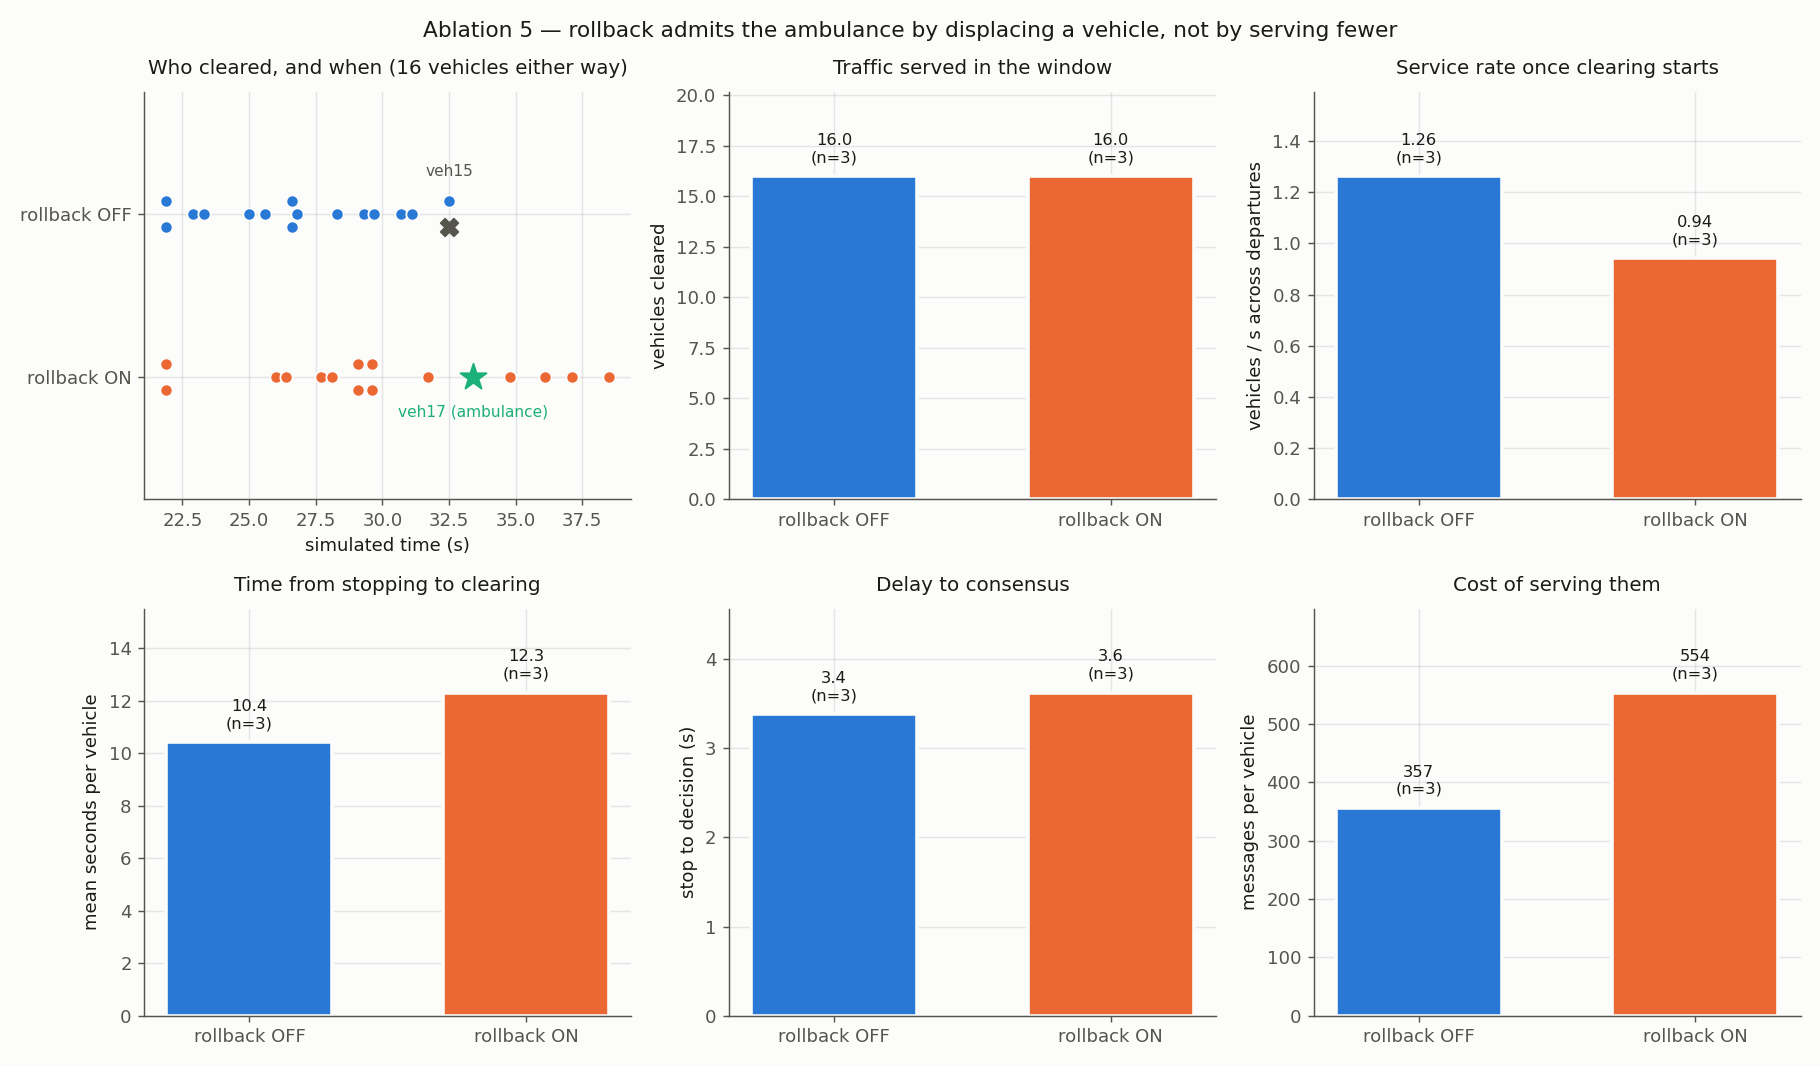
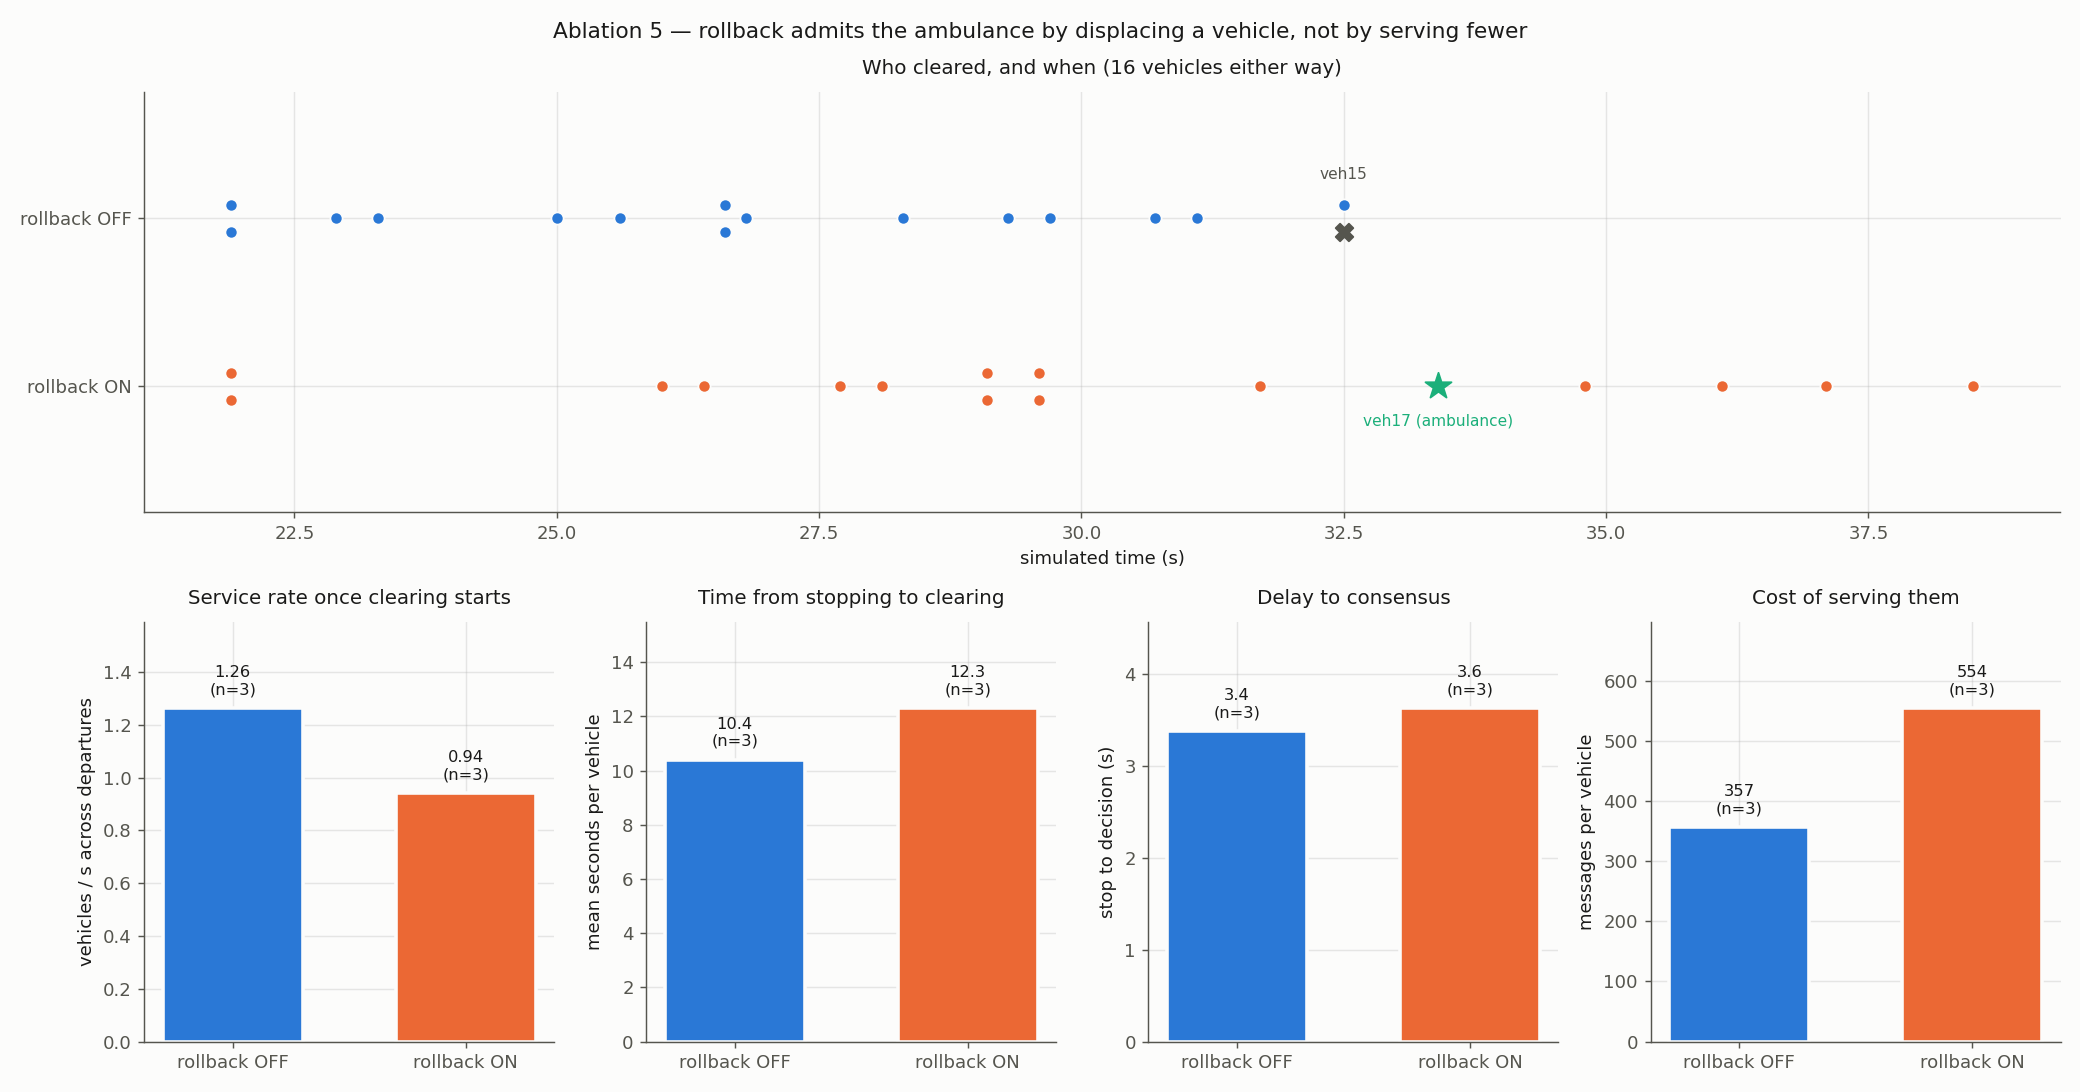
refactor(plotter): drop ab5's "traffic served" panel, widen the timeline
Both arms clear 16 vehicles either way, so the bar pair was two equal columns
stating that a count-based view sees nothing. That is the premise of the
departures panel, not a finding beside it -- the timeline already shows equal
counts by having equal numbers of dots, and what it adds is WHICH vehicles: the
ambulance takes veh15's slot.

The four remaining bars are the price of that substitution. Five panels do not
tile into the old 2x3 grid, so the departures panel now spans the full top row
of a 2x4; at one cell of six its 16 markers and their labels overlapped
illegibly. style.theme() exposes the axes theme for a module that replaces a
generated axes with a spanning subplot of its own, since figure() only themes
what it creates.

The `cleared` aggregate is dropped from ab5's load(); nothing else read it.

diff --git a/plotter/figures/ab5_rollback.py b/plotter/figures/ab5_rollback.py
@@ -30,8 +30,8 @@ from .. import style
 NAME = "ab5_rollback"
 TITLE = "Rollback: admitting a late ambulance, and its cost"
 STUDY = 5
-SUBPLOTS = (2, 3)
-FIGSIZE = (14.0, 8.2)
+SUBPLOTS = (2, 4)
+FIGSIZE = (16.0, 8.4)
 
 _ARMS = (("rollback_off", "control", "rollback OFF"),
          ("rollback_on", "treatment", "rollback ON"))
@@ -65,7 +65,6 @@ def load(runs):
     return dict(
         arms=[label for _, _, label in _ARMS],
         timeline=_timeline(cells),
-        cleared=[aggregate.cleared(cells[arm]) for arm, _, _ in _ARMS],
         cost=[aggregate.msgs_per_vehicle(cells[arm], committed_only=False)
               for arm, _, _ in _ARMS],
         thru=[aggregate.discharge_rate(cells[arm]) for arm, _, _ in _ARMS],
@@ -132,23 +131,31 @@ def _value_panel(data, key, ax, *, title, ylabel, fmt):
 
 
 def build(data, axes):
-    flat = list(axes.flat)
-    _departures(data, flat[0])
-    _value_panel(data, "cleared", flat[1], fmt="{:.1f}",
-                 title="Traffic served in the window",
-                 ylabel="vehicles cleared")
-    _value_panel(data, "thru", flat[2], fmt="{:.2f}",
+    # "Traffic served in the window" is gone: both arms clear 16 either way, so
+    # the bar pair was two equal columns stating that the count-based view sees
+    # nothing -- which is the premise of the departures panel, not a finding of
+    # its own. The four remaining bars are the price of the substitution.
+    fig = axes[0][0].figure
+    # The departures panel is the result; give it the whole top row. At one cell
+    # of a 2x3 grid the 16 markers and their labels overlapped illegibly.
+    for ax in axes[0]:
+        fig.delaxes(ax)
+    top = style.theme(fig.add_subplot(2, 1, 1))
+    _departures(data, top)
+
+    flat = list(axes[1])
+    _value_panel(data, "thru", flat[0], fmt="{:.2f}",
                  title="Service rate once clearing starts",
                  ylabel="vehicles / s across departures")
-    _value_panel(data, "wait", flat[3], fmt="{:.1f}",
+    _value_panel(data, "wait", flat[1], fmt="{:.1f}",
                  title="Time from stopping to clearing",
                  ylabel="mean seconds per vehicle")
-    _value_panel(data, "latency", flat[4], fmt="{:.1f}",
+    _value_panel(data, "latency", flat[2], fmt="{:.1f}",
                  title="Delay to consensus",
                  ylabel="stop to decision (s)")
-    _value_panel(data, "cost", flat[5], fmt="{:.0f}",
+    _value_panel(data, "cost", flat[3], fmt="{:.0f}",
                  title="Cost of serving them",
                  ylabel="messages per vehicle")
-    flat[0].figure.suptitle(
+    fig.suptitle(
         "Ablation 5 — rollback admits the ambulance by displacing a vehicle, not by serving fewer",
         fontsize=12, color=style.INK_PRIMARY)

diff --git a/plotter/style.py b/plotter/style.py
@@ -124,6 +124,15 @@ def _theme_axes(ax):
     return ax
 
 
+def theme(ax):
+    """Apply the shared axes theme to an axes the caller made itself.
+
+    figure() themes what it creates; a module that replaces one of those axes
+    with a spanning subplot needs the same treatment for the replacement.
+    """
+    return _theme_axes(ax)
+
+
 def figure(figsize=FIGSIZE, subplots=(1, 1)):
     """A themed figure. Every figure module starts here.
 
